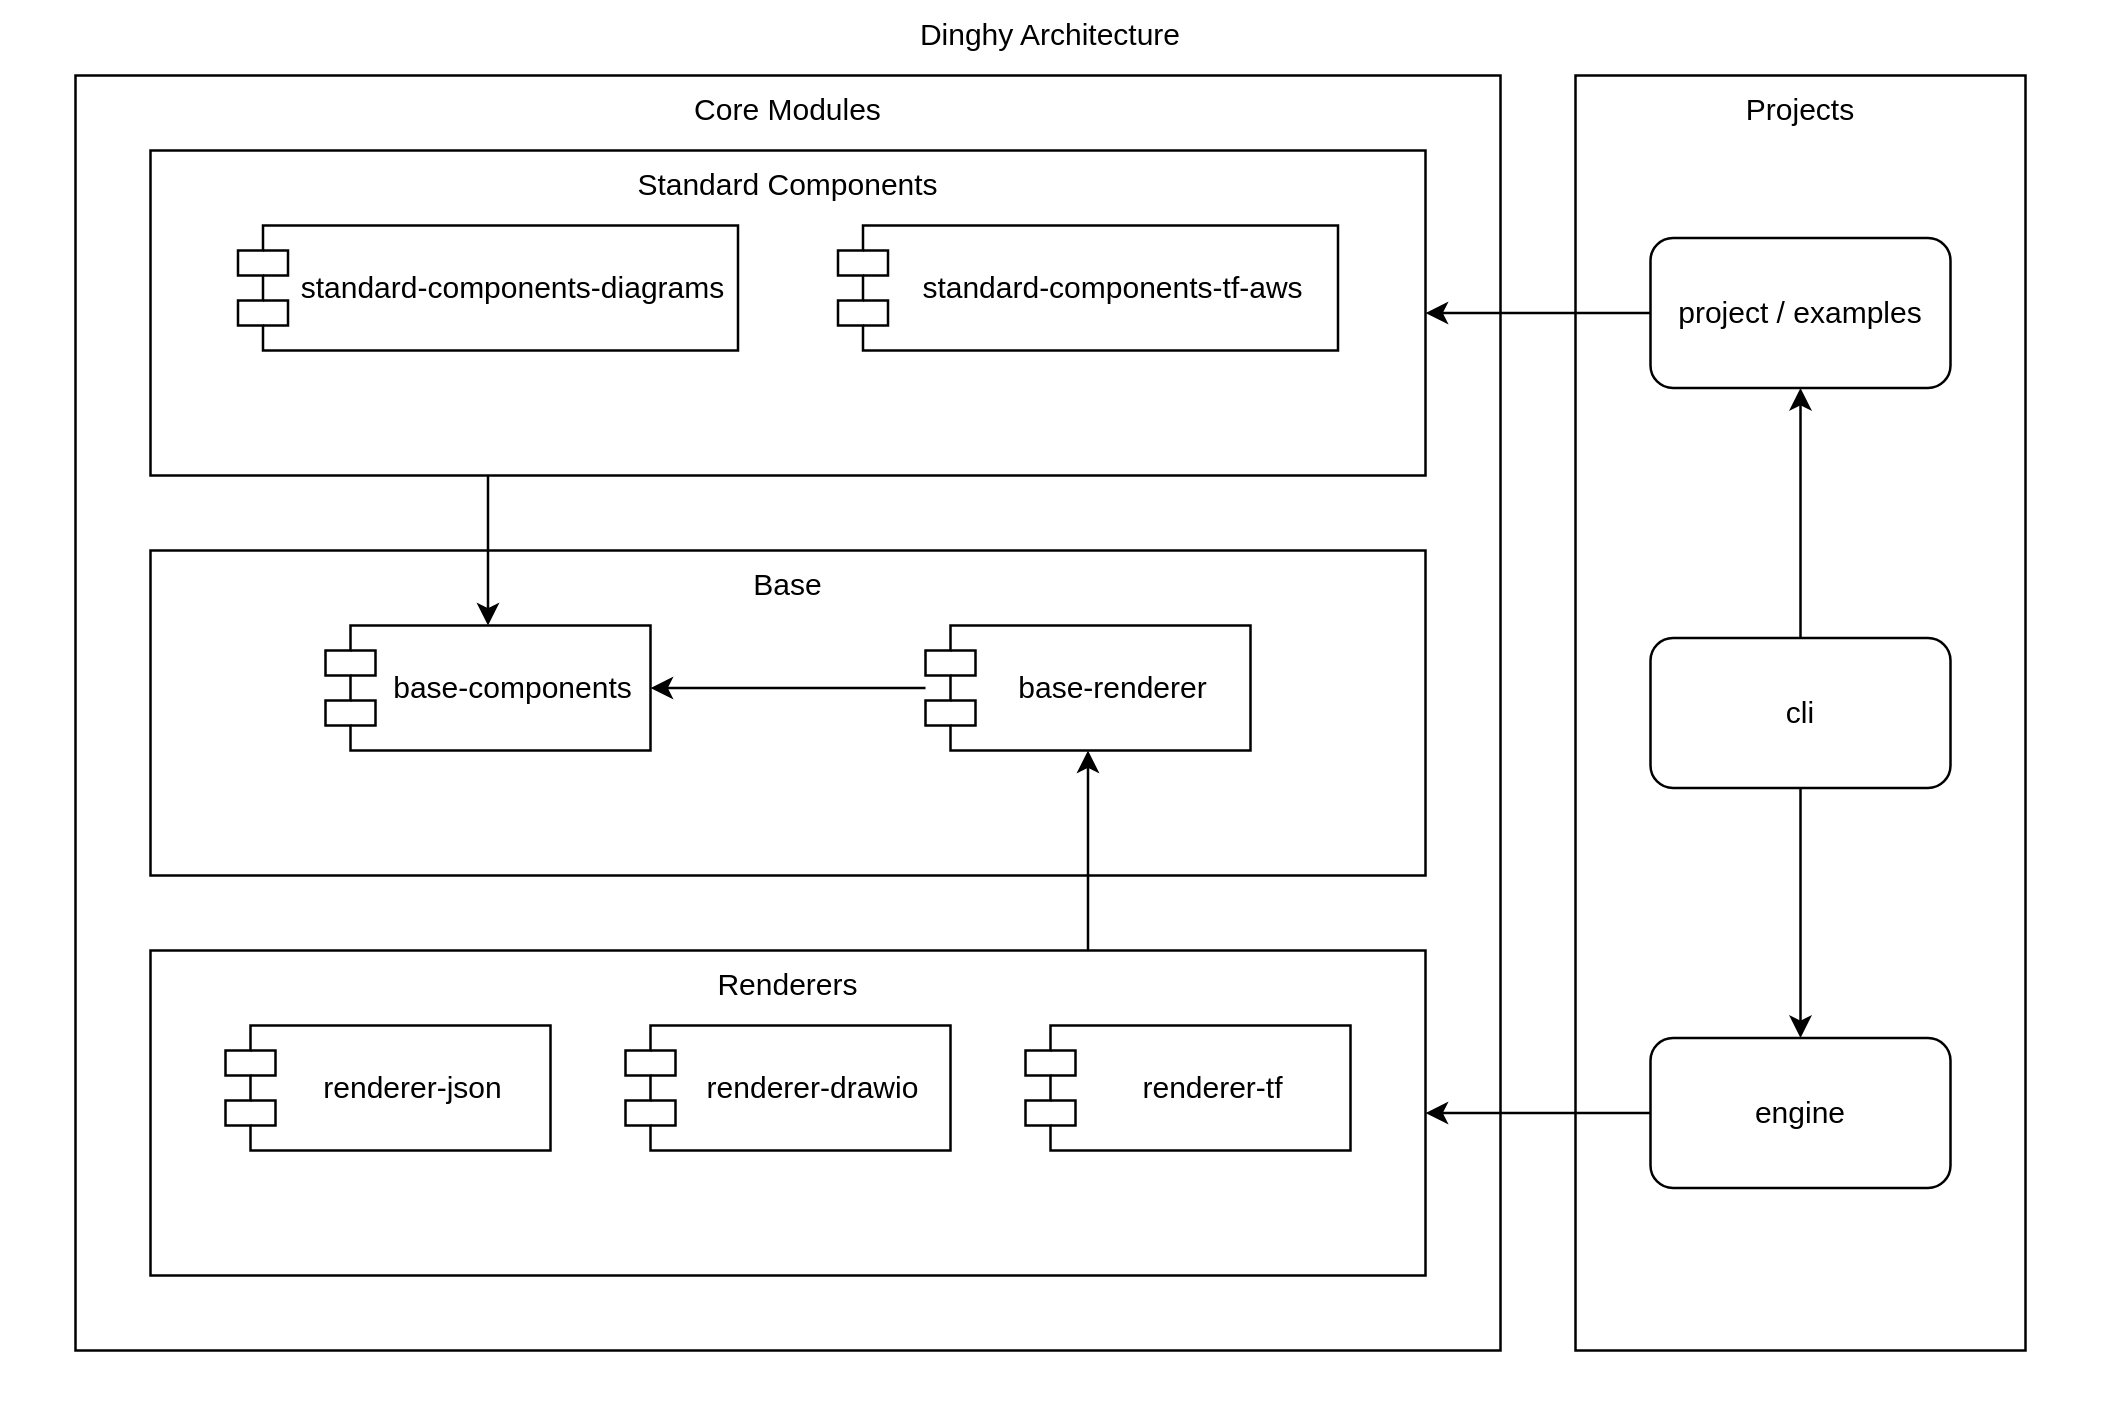
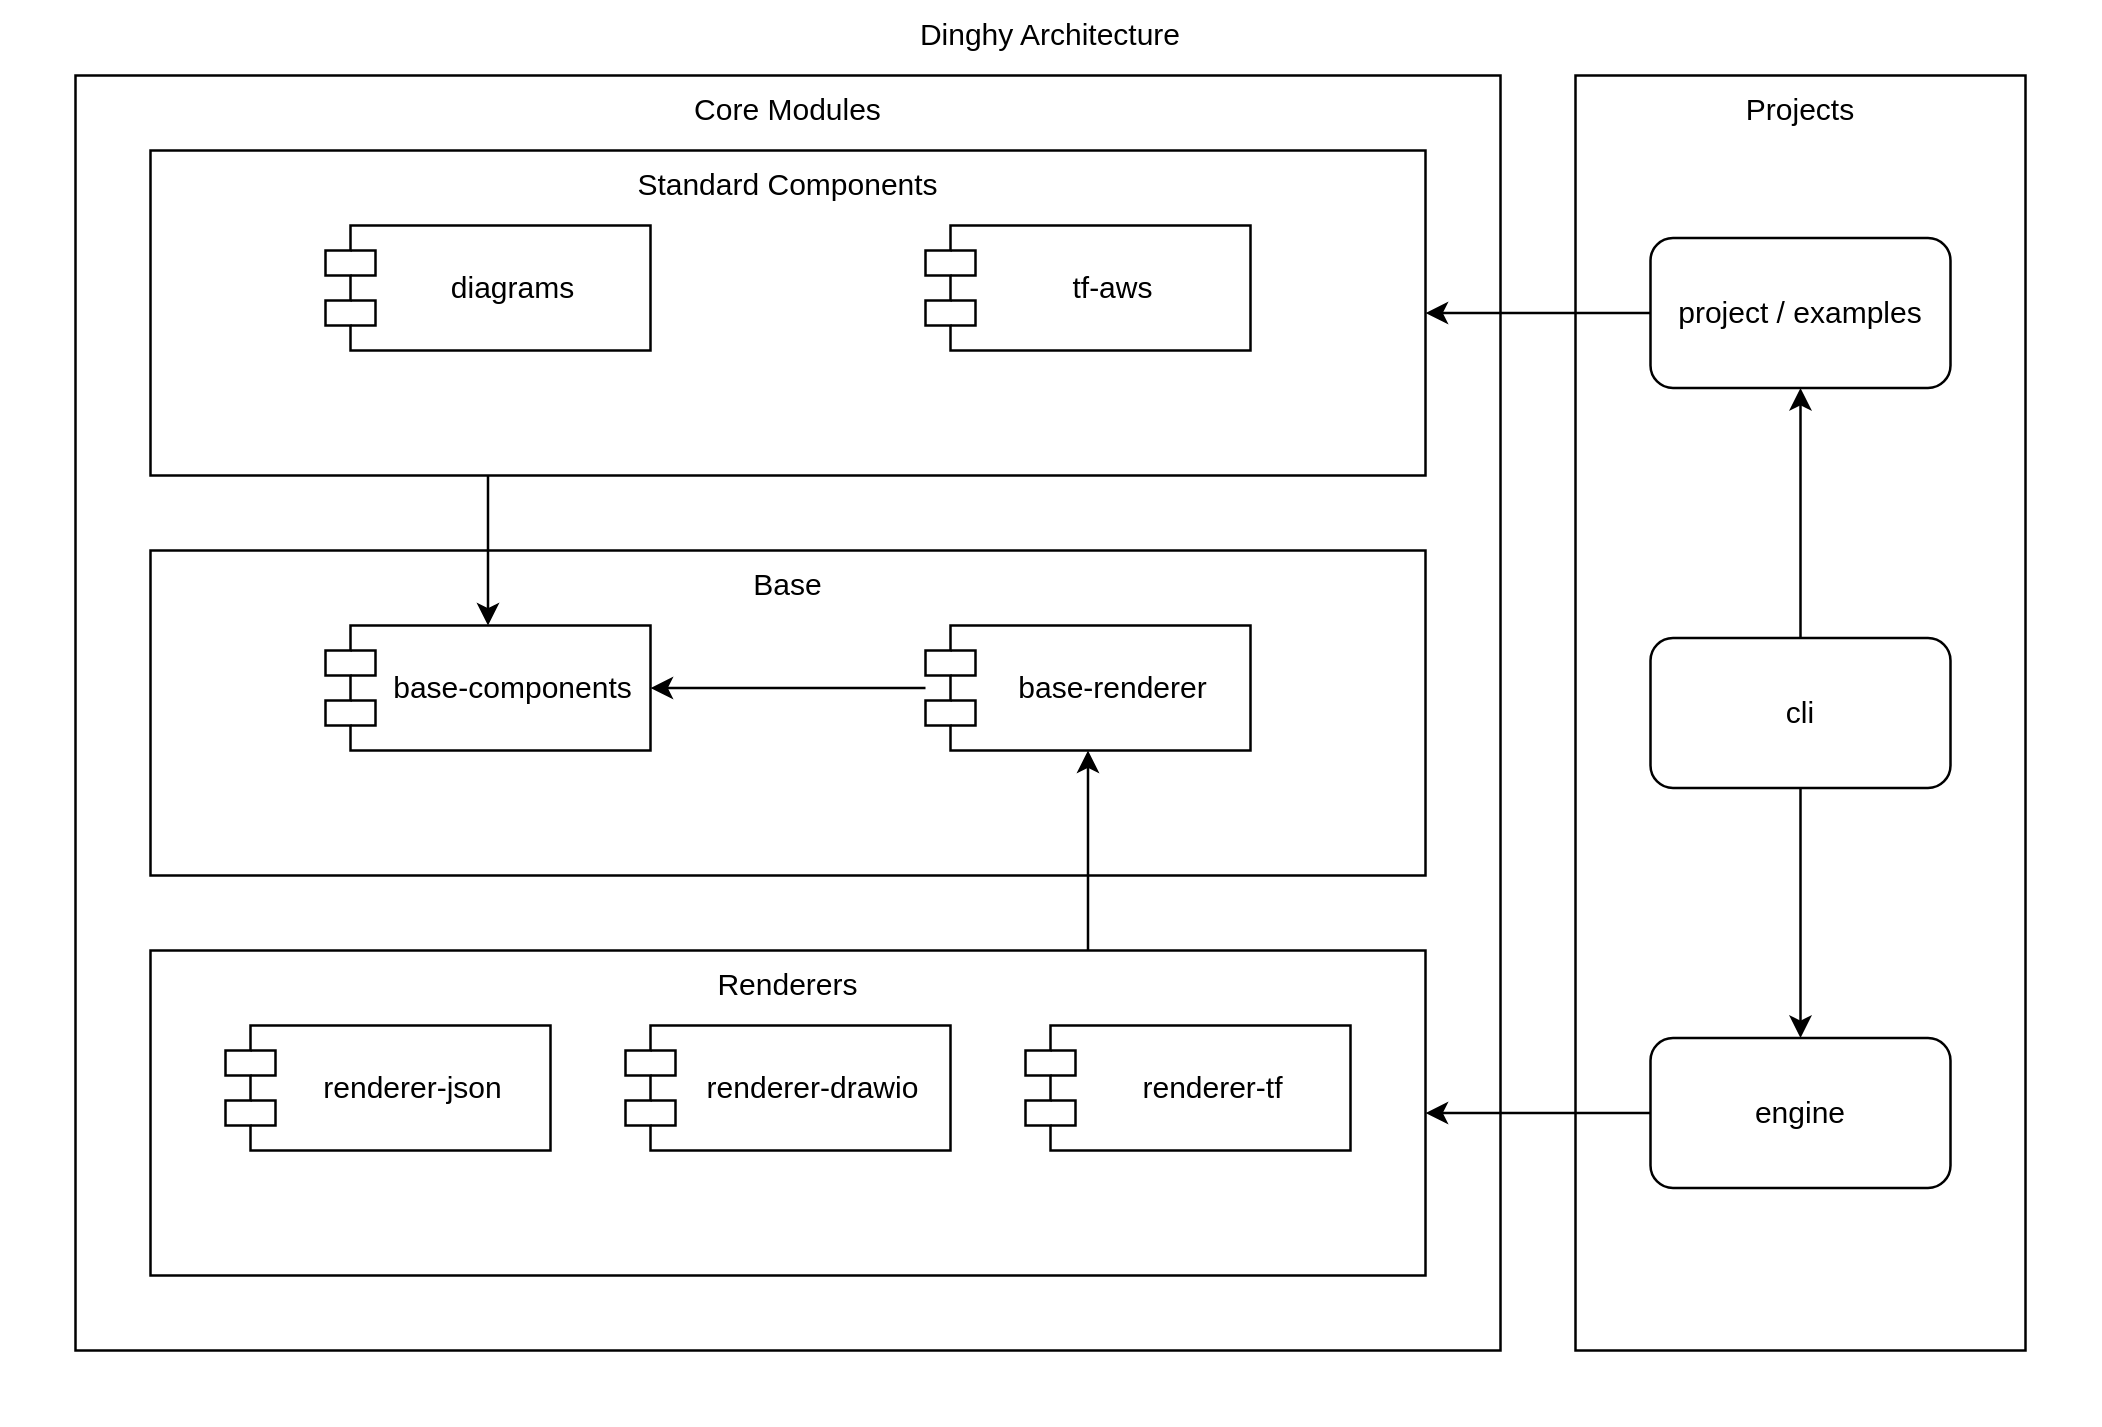
Fix zod v4 upgrade error

Changed region(s): [[0.402, 0.1542, 0.6185, 0.2467], [0.1237, 0.1542, 0.3402, 0.2467]]

diff --git a/engine/src/generate-docs.ts b/engine/src/generate-docs.ts
@@ -75,7 +75,6 @@ const renderDenoDoc = async (input: string, output: string) => {
       const definition = definitions[schema] as any
       shapes[Object.keys(definition.shape).join(',')] = schema
     })
-    console.log(definitions)
     const resolveObjectType = (obj: any): string => {
       if (obj.type === 'array') {
         return `[ ${resolveObjectType(obj.items)} ]`
@@ -112,21 +111,9 @@ const renderDenoDoc = async (input: string, output: string) => {
 </thead>
 <tbody>`)
       const { properties, required } = z.toJSONSchema(definition)
-      console.log('json', z.toJSONSchema(definition))
-      console.log('meta', definition.meta())
       Object.entries(properties as any).map(([name, p]) => {
         const prop = p as any
         const typeValue = resolveObjectType(prop)
-        // mdx.push(
-        //   `| \`${name}\` | ${typeValue} | ${prop.description || ''} | ${
-        //     (required || [])!.includes(name) ? '✅' : '❌'
-        //   } | ${
-        //     prop.default !== undefined &&
-        //       !['object', 'array'].includes(prop.type)
-        //       ? `\`${prop.default}\``
-        //       : ''
-        //   } |`,
-        // )
         if (prop.hidden) {
           return
         }

diff --git a/core/renderer-drawio/src/processors/p68AdjustRelationships.ts b/core/renderer-drawio/src/processors/p68AdjustRelationships.ts
@@ -149,9 +149,6 @@ const handleVertical = (
   const totalLength = list.length
   const isListMultiple = list.length > 1
   const middleNumber = totalLength / 2
-  const listCenterX = list
-    .map((l) => (l._props as any)._diagram.state.absCenterX)
-    .reduce((a, b) => a + b, 0) / totalLength
   const listLeft = Math.min(
     ...list.map((l) => (l._props as any)._diagram.state.absLeft),
   )
@@ -164,7 +161,8 @@ const handleVertical = (
     let y1: number
     let distanceY: number
     if (isSingleSource) {
-      x1 = listCenterX +
+      x1 =
+        (relationship._props as any)._source._props._diagram.state.absCenterX +
         (i - middleNumber + 0.5) *
           (relationship._props as any)._diagram.dimension.arrowSpace
       x2 = (relationship._props as any)._target._props._diagram.state.absCenterX
@@ -180,7 +178,8 @@ const handleVertical = (
       )
     } else {
       x1 = (relationship._props as any)._source._props._diagram.state.absCenterX
-      x2 = listCenterX +
+      x2 =
+        (relationship._props as any)._target._props._diagram.state.absCenterX +
         (i - middleNumber + 0.5) *
           (relationship._props as any)._diagram.dimension.arrowSpace
       ;[x1, x2] = correctToDirectLine(

diff --git a/tasks/src/render-examples.ts b/tasks/src/render-examples.ts
@@ -29,14 +29,17 @@ const findDinghyProjects = async () => {
 
 const renderProjectWithoutPng = async (projectPath: string) => {
   console.log(`Rendering ${projectPath}...`)
-  await execa('deno', [
+  const args = [
     'run',
     '-A',
     'src/index.ts',
     'render',
-    '--no-diagram-png',
     `--app-home=${projectPath}`,
-  ], {
+  ]
+  if (!Deno.args.includes('--diagram-png')) {
+    args.push('--no-diagram-png')
+  }
+  await execa('deno', args, {
     cwd: `${projectRoot}/engine`,
     stdio: 'inherit',
     env: { CI_SKIP_GIT_DIFF_CHECK: 'true' },

diff --git a/core/diagrams/src/composites/sequence-diagram/types.tsx b/core/diagrams/src/composites/sequence-diagram/types.tsx
@@ -37,7 +37,9 @@ export const MessageSchema = z.object({
   to: z.string().describe('Receiver participant'),
   message: z.string().optional().describe('Message content'),
   return: z.boolean().default(false).describe('Is this a return message?'),
-  dashed: z.boolean().default(false).describe('Is this message dashed?'),
+  dashed: z.boolean().describe(
+    'Is this message dashed? Default to true for return messages',
+  ).optional(),
 }).describe('A message between participants')
 
 export type MessageType = z.output<typeof MessageSchema>

diff --git a/core/tf-aws/src/AwsDbInstance.tsx b/core/tf-aws/src/AwsDbInstance.tsx
@@ -11,8 +11,12 @@ export const AwsDbInstanceInputSchema = z.object({
   allocated_storage: ResolvableNumberSchema.optional(),
   db_name: ResolvableStringSchema.optional(),
   engine: z.union([
-    z.enum(['postgres', 'mysql']),
-    z.function().args(z.any()).returns(z.any()),
+    z.enum(['postgres', 'mysql']).optional(),
+    // z.string().optional(),
+    z.function({
+      input: [z.any()],
+      output: z.any(),
+    }),
   ]),
   engine_version: ResolvableStringSchema.optional(),
   instance_class: ResolvableStringSchema.optional(),

diff --git a/core/tf-aws/src/AwsElasticacheCluster.tsx b/core/tf-aws/src/AwsElasticacheCluster.tsx
@@ -12,8 +12,11 @@ import z from 'zod'
 export const AwsElasticacheClusterSchema = z.object({
   cluster_id: ResolvableStringSchema.optional(),
   engine: z.union([
-    z.string(z.enum(['memcached', 'redis'])).optional(),
-    z.function().args(z.any()).returns(z.any()),
+    z.enum(['memcached', 'redis']).optional(),
+    z.function({
+      input: [z.any()],
+      output: z.any(),
+    }),
   ]),
   node_type: ResolvableStringSchema.optional(),
   num_cache_nodes: ResolvableNumberSchema.optional(),

diff --git a/core/tf-aws/src/AwsPostgres.tsx b/core/tf-aws/src/AwsPostgres.tsx
@@ -4,7 +4,7 @@ import { IacNodeProps } from '@dinghy/base-components'
 import z from 'zod'
 
 export const AwsPostgresSchema = AwsDbInstanceInputSchema.omit({ engine: true })
-export type AwsPostgresProps = z.input<typeof AwsPostgresSchema> & IacNodeProps
+export type AwsPostgresProps = z.output<typeof AwsPostgresSchema> & IacNodeProps
 
 export default function AwsPostgres(props: AwsPostgresProps) {
   return (

diff --git a/sites/www/src/docs/get-started/architecture/architecture.tsx b/sites/www/src/docs/get-started/architecture/architecture.tsx
@@ -7,8 +7,8 @@ export default function App() {
     <DinghyArchitecture>
       <CoreModules>
         <StandardComponents>
-          <Module _width={200}>diagrams</Module>
-          <Module _width={200}>tf-aws</Module>
+          <Module>diagrams</Module>
+          <Module>tf-aws</Module>
         </StandardComponents>
         <Base>
           <Module _dependsBy={["StandardComponents", "base-renderer"]}>

diff --git a/engine/src/commands/tf/generate/parseResources.ts b/engine/src/commands/tf/generate/parseResources.ts
@@ -126,7 +126,7 @@ export async function parseResources(_args: any, resources: any) {
           /* eslint-disable no-case-declarations */
         default: {
           if (schema instanceof z.ZodDefault) {
-            const defaultValue = schema._def.defaultValue()
+            const defaultValue = schema.def.defaultValue
             if (defaultValue === value) {
               return
             }

diff --git a/core/tf-aws/src/s3/AwsS3Bucket.tsx b/core/tf-aws/src/s3/AwsS3Bucket.tsx
@@ -31,7 +31,7 @@ export type AwsS3BucketInputProps =
 
 export type AwsS3BucketOutputProps =
   & z.output<typeof AwsS3BucketOutputSchema>
-  & AwsS3BucketInputProps
+  & z.output<typeof AwsS3BucketInputSchema>
 
 export function AwsS3Bucket(props: AwsS3BucketInputProps) {
   const _importId = (node: any) => node._props.bucket

diff --git a/core/tf-aws/src/vpc/DataAwsSecurityGroup.tsx b/core/tf-aws/src/vpc/DataAwsSecurityGroup.tsx
@@ -31,7 +31,7 @@ export function DataAwsSecurityGroup(props: DataAwsSecurityGroupInputProps) {
     <AwsSecurityGroup
       _inputSchema={DataAwsSecurityGroupInputSchema}
       _outputSchema={DataAwsSecurityGroupOutputSchema}
-      {...props}
+      {...(props as any)}
     />
   )
 }

diff --git a/core/tf-aws/src/s3/S3CloudfrontSite.tsx b/core/tf-aws/src/s3/S3CloudfrontSite.tsx
@@ -103,7 +103,7 @@ export function S3CloudfrontSite(props: S3CloudfrontSiteInputProps) {
             response_page_path: '/errors/404.html',
           },
         ]}
-        {...props}
+        {...(props as any)}
       >
         <AwsRoute53Record
           name={domain as any}
